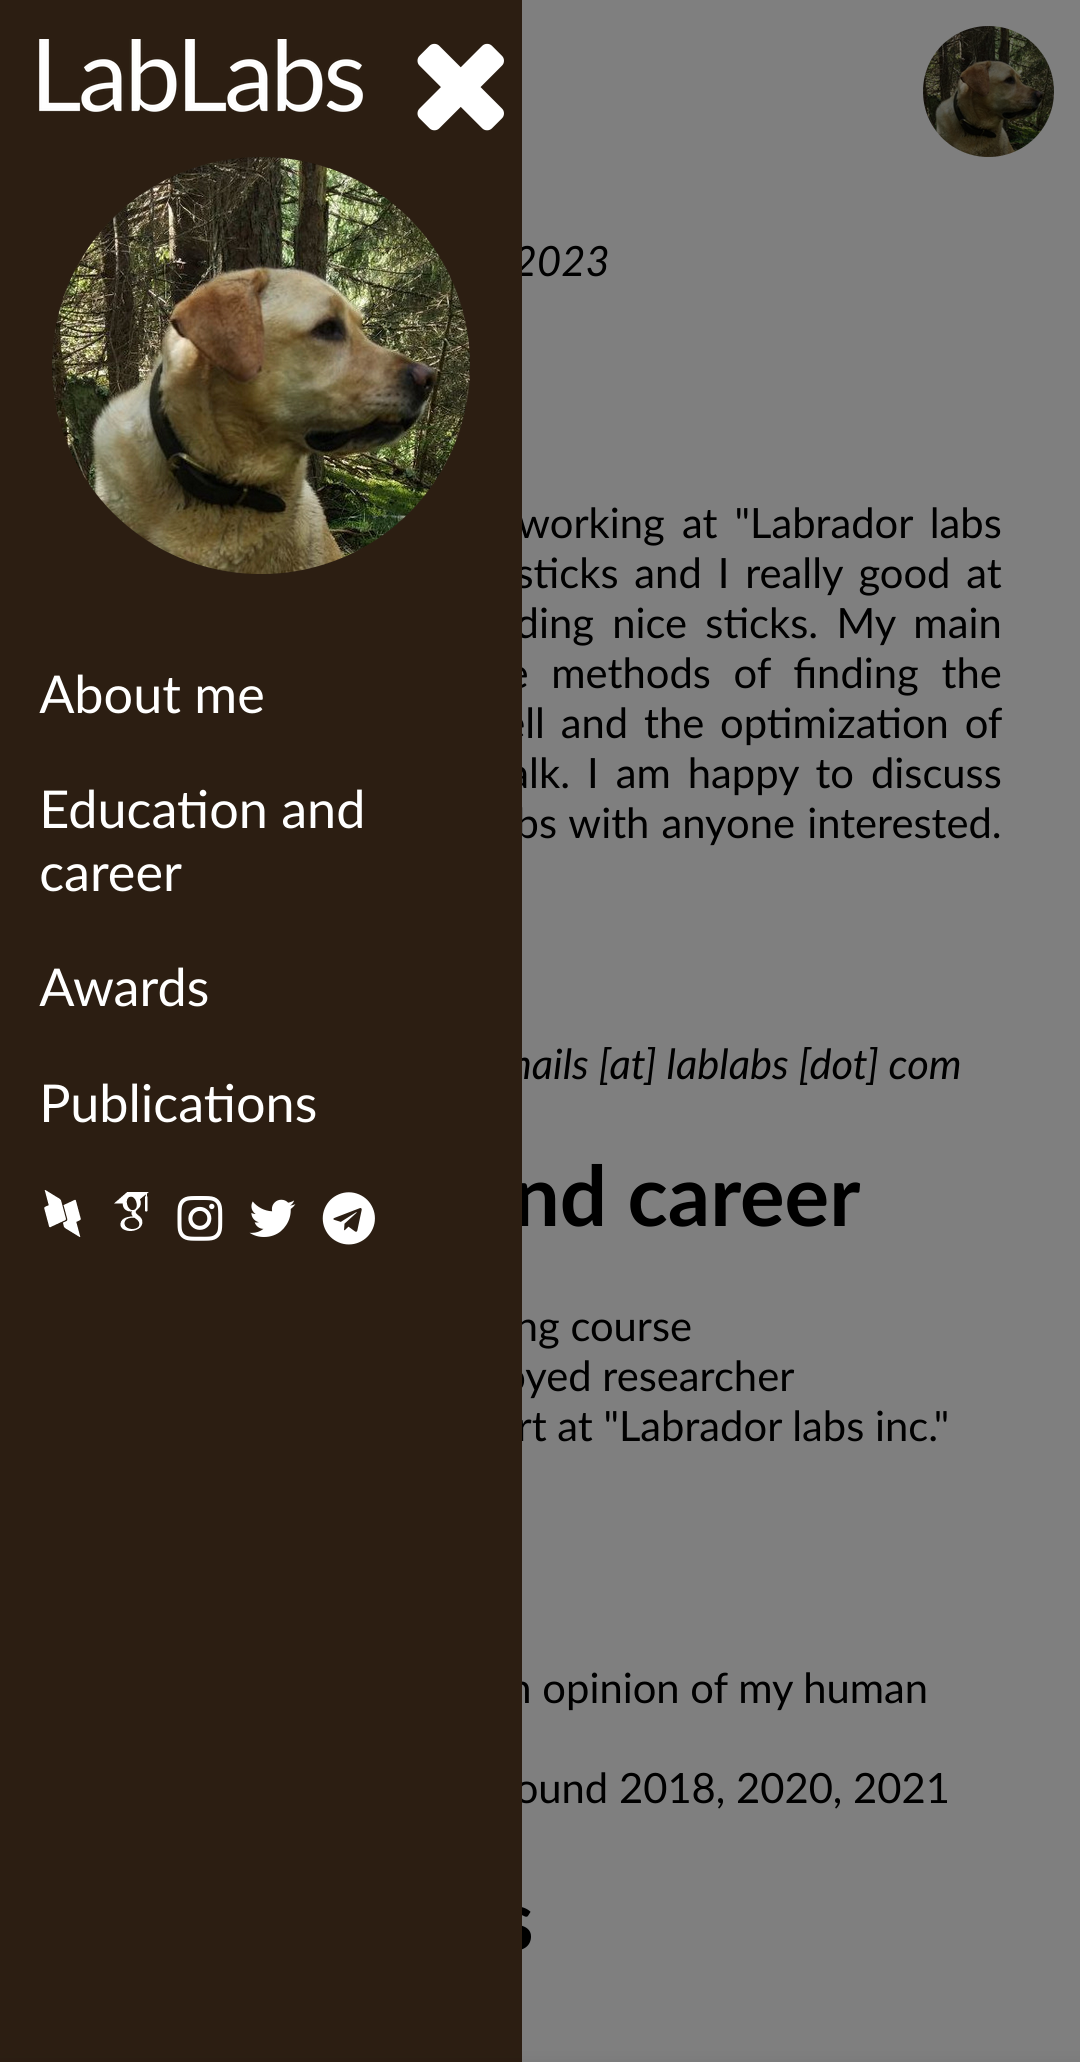
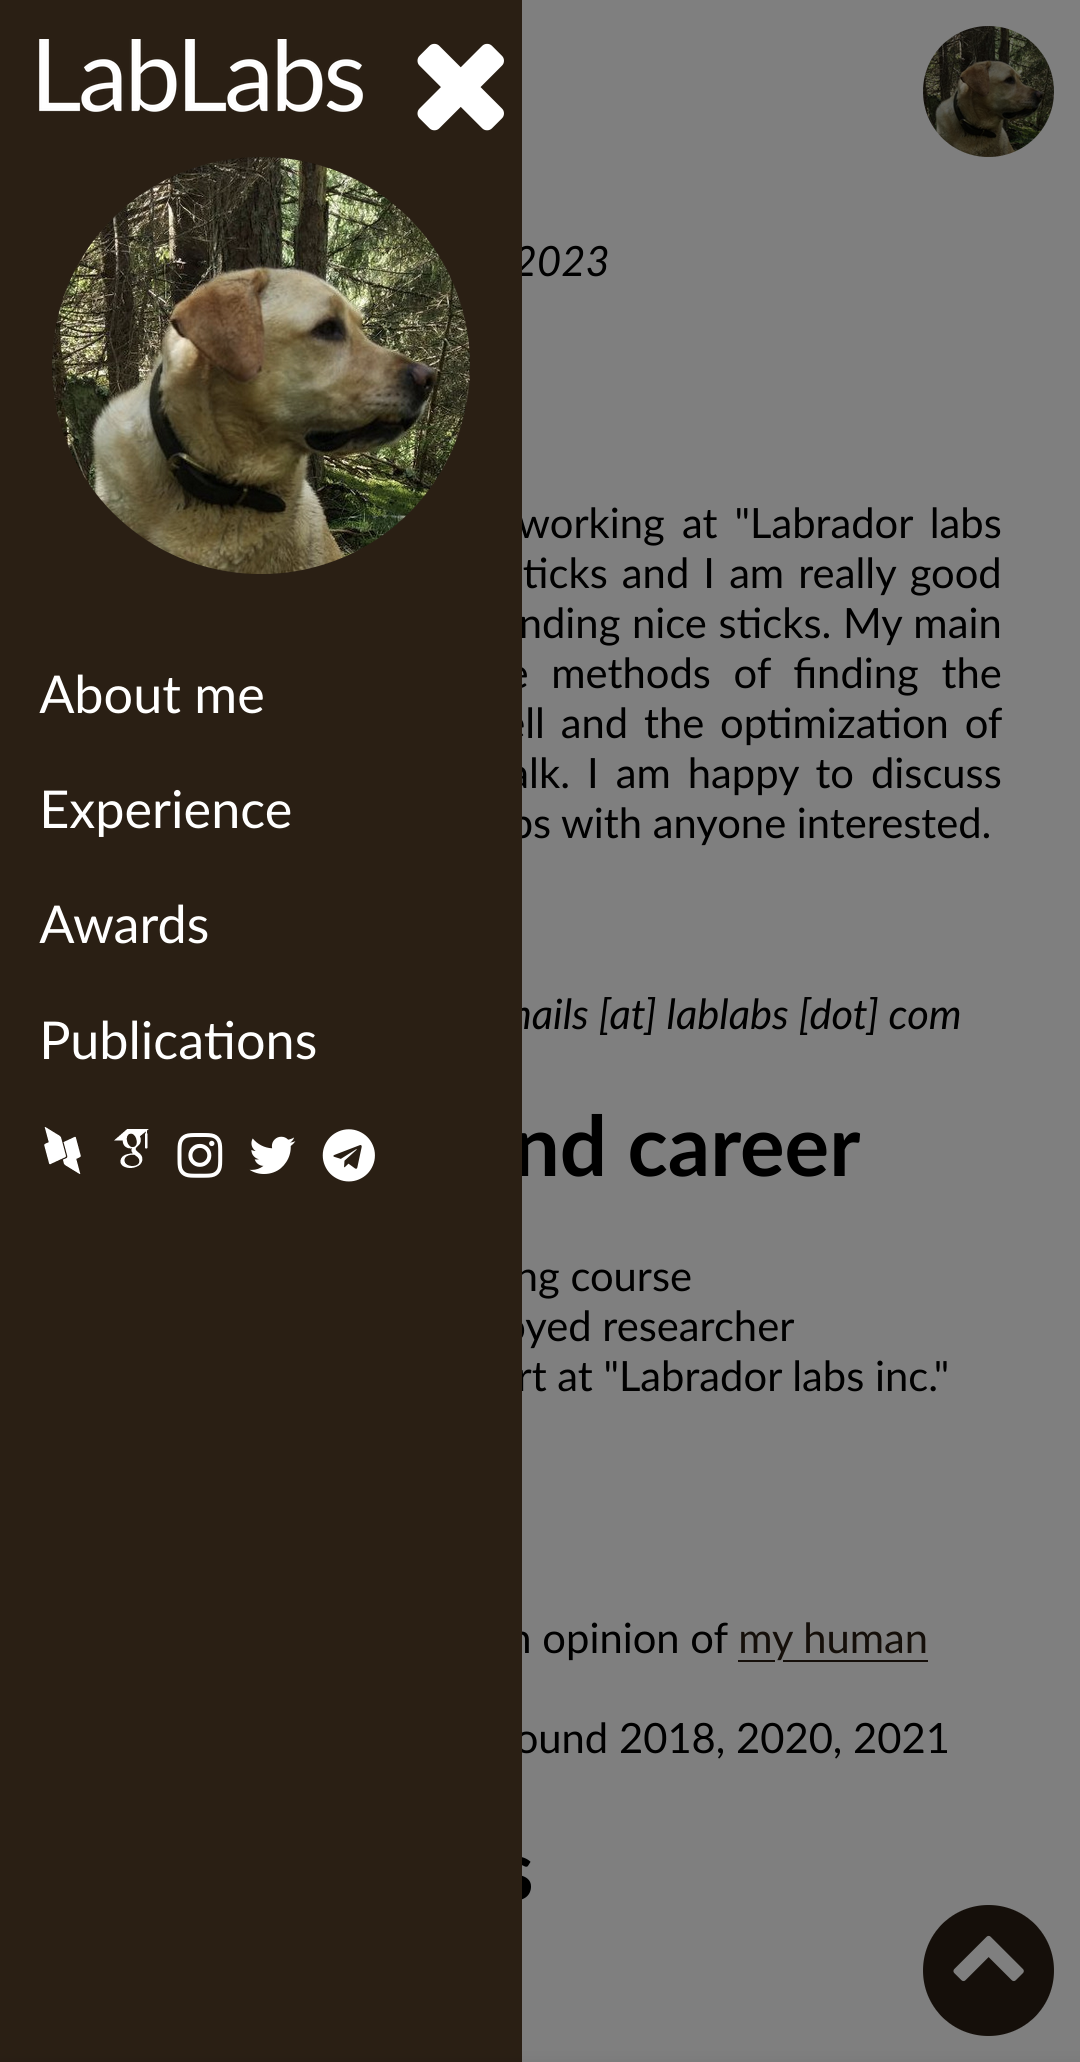
fixed the sidebar social links

diff --git a/template.html b/template.html
@@ -6,7 +6,7 @@
     </title>
     <meta name="viewport" content="width=device-width, initial-scale=1.0">
     <link rel="stylesheet" href="styles.css">
-    <link rel="stylesheet" href="https://cdnjs.cloudflare.com/ajax/libs/font-awesome/4.7.0/css/font-awesome.min.css">
+    <script src="https://kit.fontawesome.com/16c5c7980a.js" crossorigin="anonymous"></script>
     <link rel="icon" type="image/x-icon" href="images/favicon.png">
 </head>
 <body>

diff --git a/styles.css b/styles.css
@@ -121,15 +121,16 @@ body {
 }
 
 .social-links-block {
-    margin: 10px;
-    margin-left: 15px;
+    padding: 10px;
+    padding-left: 15px;
 }
 
 .social-link {
-    display: block;
+    display: flex;
     float:left;
     font-size: 20px;
     text-decoration: none;
+    margin-bottom: 5px;
     margin-right: 10px;
 }
 

diff --git a/html-generator.py b/html-generator.py
@@ -3,6 +3,7 @@ import re
 from publications import read_bib_file, read_bib_dblp, gen_html_by_database
 from datetime import date
 import sys
+from os.path import exists
 
 def generate_content(content_filename, bib_database):
     with open(content_filename, 'r') as f:
@@ -42,18 +43,47 @@ def generate_content(content_filename, bib_database):
     links = [s[1] for s in sections[0][1][1:]]
 
     def links_bar(links):
+        # get the sidebar text color:
+        color = None
+        with open('styles.css', 'r') as f:
+            sidebar_rules = re.sub(r'[^\{]*\{([^\}]*)\}',  r'\1', re.search(r'\.sidebar-text a, \.up-button\{[^\}]*\}', f.read()).group(0)).strip()
+        for line in sidebar_rules.split(';'):
+            if line.split(':')[0].strip() == 'color':
+                color = line.split(':')[1].strip()
+        
+        def recolor_svg(filename, color):
+            if color is not None:
+                with open(filename, 'r') as f:
+                    content = f.read()
+                with open(filename, 'w') as f:
+                    f.write(re.sub(r'fill:[^;]*', 'fill:{}'.format(color), content))
+
         s = ''
         for link in links:
+            s == ' ' * 12
             if 'dblp.org' in link:
-                s += '<a href="{}" class="social-link" target="_blank"><img src="images/dblp.svg" height="18"></a>\n'.format(link)
+                recolor_svg("images/dblp.svg", color)
+                s += '<a href="{}" class="social-link" target="_blank"><img src="images/dblp.svg" height="20"></a>\n'.format(link)
             elif 'scholar.google.com' in link:
+                recolor_svg("images/google-scholar.svg", color)
                 s += '<a href="{}" class="social-link" target="_blank"><img src="images/google-scholar.svg" height="20"></a>\n'.format(link)
             elif 'instagram.com' in link:
-                s += '<a href="{}" class="social-link" target="_blank"><i class="fa fa-instagram"></i></a>\n'.format(link)
+                s += '<a href="{}" class="social-link" target="_blank"><i class="fa-brands fa-instagram"></i></a>\n'.format(link)
             elif 'twitter.com' in link:
-                s += '<a href="{}" class="social-link" target="_blank"><i class="fa fa-twitter"></i></a>\n'.format(link)
+                s += '<a href="{}" class="social-link" target="_blank"><i class="fa-brands fa-twitter"></i></a>\n'.format(link)
             elif 't.me' in link:
-                s += '<a href="{}" class="social-link" target="_blank"><i class="fa fa-telegram"></i></a>'.format(link)
+                s += '<a href="{}" class="social-link" target="_blank"><i class="fa-brands fa-telegram"></i></a>\n'.format(link)
+            elif 'scopus.com' in link:
+                recolor_svg("images/scopus.svg", color)
+                s += '<a href="{}" class="social-link" target="_blank"><img src="images/scopus.svg" height="20"></a>\n'.format(link)
+            elif 'researchgate.net' in link:
+                s += '<a href="{}" class="social-link" target="_blank"><i class="fa-brands fa-researchgate"></i></a>\n'.format(link)
+            elif 'facebook.com' in link or 'fb.com' in link:
+                s += '<a href="{}" class="social-link" target="_blank"><i class="fa-brands fa-facebook"></i></a>\n'.format(link)
+            elif 'orcid.org' in link:
+                s += '<a href="{}" class="social-link" target="_blank"><i class="fa-brands fa-orcid"></i></a>\n'.format(link)
+            elif 'linkedin.com' in link:
+                s += '<a href="{}" class="social-link" target="_blank"><i class="fa-brands fa-linkedin"></i></a>\n'.format(link)
             else:
                 print('WARNING: unsupported social link: {}'.format(link))
         return s
@@ -81,11 +111,10 @@ def generate_content(content_filename, bib_database):
     for section in sections[1:]:
         content += ' ' * 12 + '<div id = "{}">\n'.format(id(section[0]))
         content += ' ' * 16 + '<h1>{}</h1>\n'.format(section_title(section[0]))
-        if section[0] == 'Publications': 
+        if section[0] == 'Publications' and bib_database is not None: 
             content += gen_html_by_database(bib_database)
-        else: 
-            for section_part in section[1]:
-                content += print_html(section_part)
+        for section_part in section[1]:
+            content += print_html(section_part)
         content += ' ' * 12 + '</div>\n\n'
 
     return name, menu, links_bar(links), content
@@ -120,14 +149,18 @@ for i in range(1, len(args)):
     elif args[i] == '-o':
         output_file = args[i + 1]
 
-if input_bib_link is None and input_bib_file is None:
-    input_bib_file = 'bibliography.bib'
+bib_database = None
 
-if input_bib_file is not None:
-    bib_database = read_bib_file(input_bib_file)
-else:
+if input_bib_file is None and input_bib_link is not None:
     print('Downloading bibliography...')
-    bib_database=read_bib_dblp(input_bib_link)
+    bib_database = read_bib_dblp(input_bib_link)
+else:
+    if input_bib_file is None and exists('bibliography.bib'):
+        input_bib_file = 'bibliography.bib'
+    if input_bib_file is not None:
+        bib_database = read_bib_file(input_bib_file)
+
+
 
 name, menu, links, content = generate_content(input_content_file, bib_database)
 

diff --git a/content.md b/content.md
@@ -2,17 +2,20 @@ Friend the Dog
 
 https://dblp.org/pid/160/0973.html
 https://scholar.google.com/citations?hl=en&user=X3G0oowAAAAJ
+https://orcid.org/0000-0001-7906-096X
+https://www.scopus.com/authid/detail.uri?authorId=56560269000
+https://www.researchgate.net/profile/Denis-Antipov
 https://www.instagram.com/antipovden/
 https://twitter.com/antipovden239/
 https://t.me/antipovden
 
 # About me
 
-I am a labrador Friend working at "Labrador labs inc.". I am an expert in sticks and I really good at walking around and finding nice sticks. My main research interest is the methods of finding the best sticks by their smell and the optimization of stick size during the walk. I am happy to discuss sticks, food and belly rubs with anyone interested. Trying [to make a link](https://google.com).
+I am a labrador Friend working at "Labrador labs inc.". I am an expert in sticks and I am really good at walking around and finding nice sticks. My main research interest is the methods of finding the best sticks by their smell and the optimization of stick size during the walk. I am happy to discuss sticks, food and belly rubs with anyone interested.
 
 <address> 12 Bones av. <br> London, LAB 101, UK <br> email: dogs-dont-have-emails [at] lablabs [dot] com </address>
 
-# Education and career
+# Education and career # Experience
 
 * 2016-2017: Dog-training course
 * 2017-2019: Self-employed researcher
@@ -20,7 +23,7 @@ I am a labrador Friend working at "Labrador labs inc.". I am an expert in sticks
 
 # Awards
 
-- The goodest boy in opinion of my human 2015-2023
+- The goodest boy in opinion of [my human](https://ctlab.itmo.ru/~dantipov/) 2015-2023
 - The biggest stick found 2018, 2020, 2021
 
 # Publications

diff --git a/README.md b/README.md
@@ -10,7 +10,8 @@ This is a simple generator of a personal page, which is optimized for the people
     - Write the content of the page into the `content.md` file (the format of this file is described below)
     - \[Optional\] Prepare a bibliography file to be added to your webpage
 3. Run the generator script
-    - If you chose to add the list of publications, this script will try to add a link to arxiv to your conference or journal papaers, but sometimes it needs some assistance from you
+    - Prepare the dependencies (Python 3 and several packages for it)
+    - If you chose to add the list of publications, this script will try to add a link to arXiv to your conference or journal papers, but sometimes it needs some assistance from you
 4. Put the generated `index.html` file together with `styles.css` and the folders `fonts` and `images` to your server
  
 ## Features
@@ -23,14 +24,15 @@ This is a simple generator of a personal page, which is optimized for the people
 
 Mobile view (with open and closed menu): 
 
-<img src='./screenshots/mobile.png' width=45%>&#160;
-<img src='./screenshots/mobile-menu.png' width=45%> 
+<img src='./screenshots/mobile.png' height=400pt>&#160;&#160;
+<img src='./screenshots/mobile-menu.png' height=400pt> 
 
 
 Wide screen view:
 
-![Wide screen view](screenshots/desktop.png)
+
+<img src='./screenshots/desktop.png' height=400pt> 
 
 Half-screen view (no margin to the left from the menu):
 
-![Half screen view](screenshots/desktop-half.png)
+<img src='./screenshots/desktop-half.png' height=400pt> 
